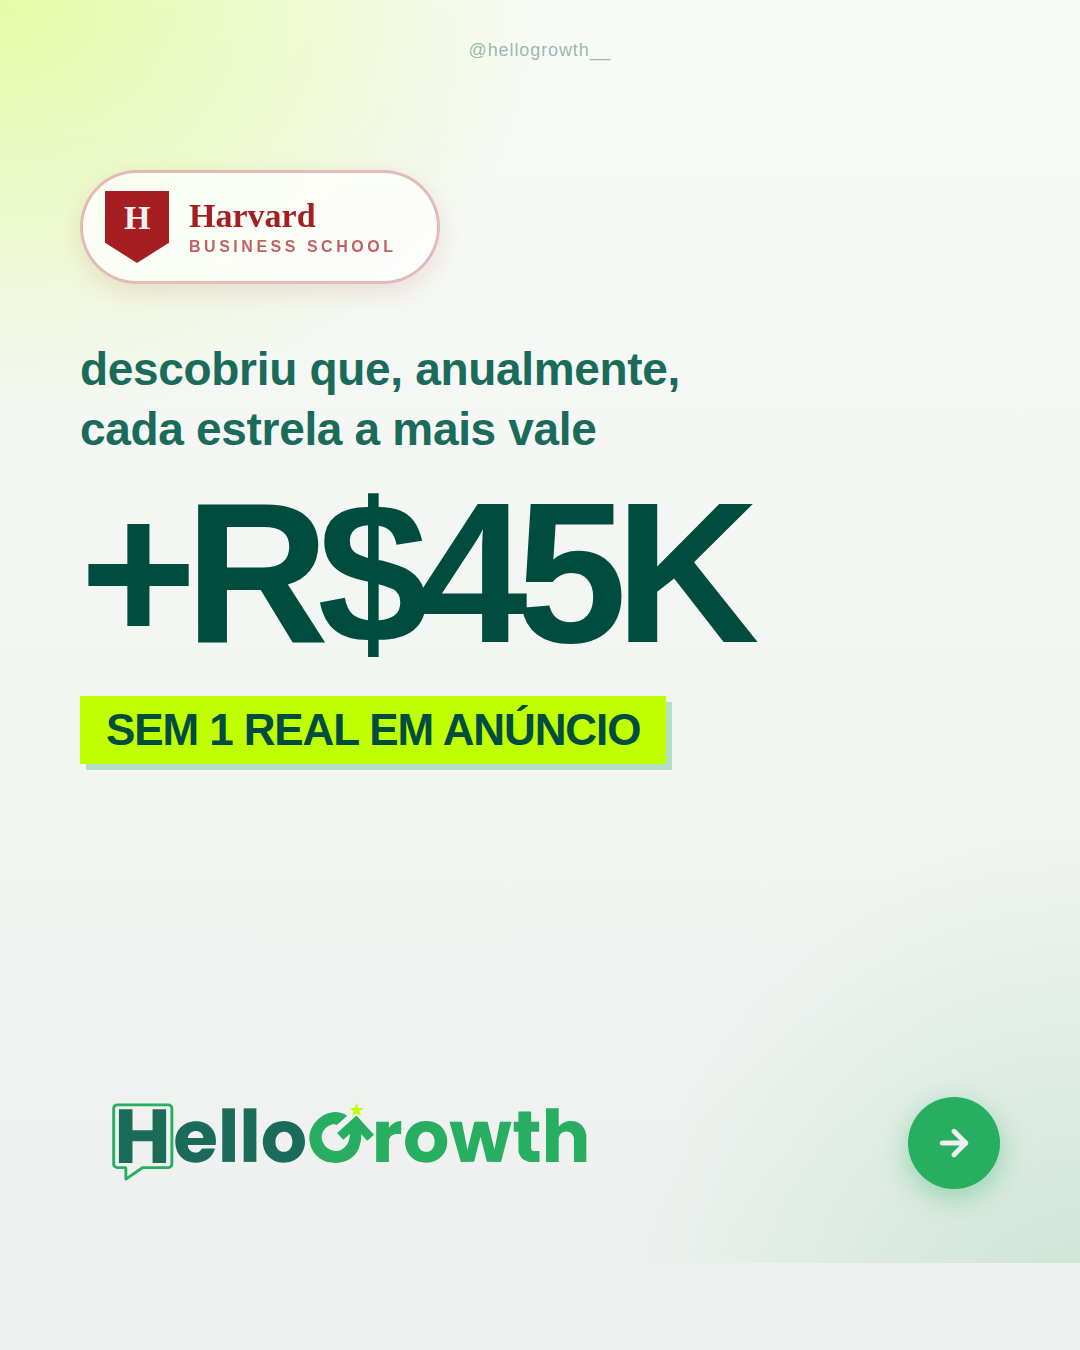
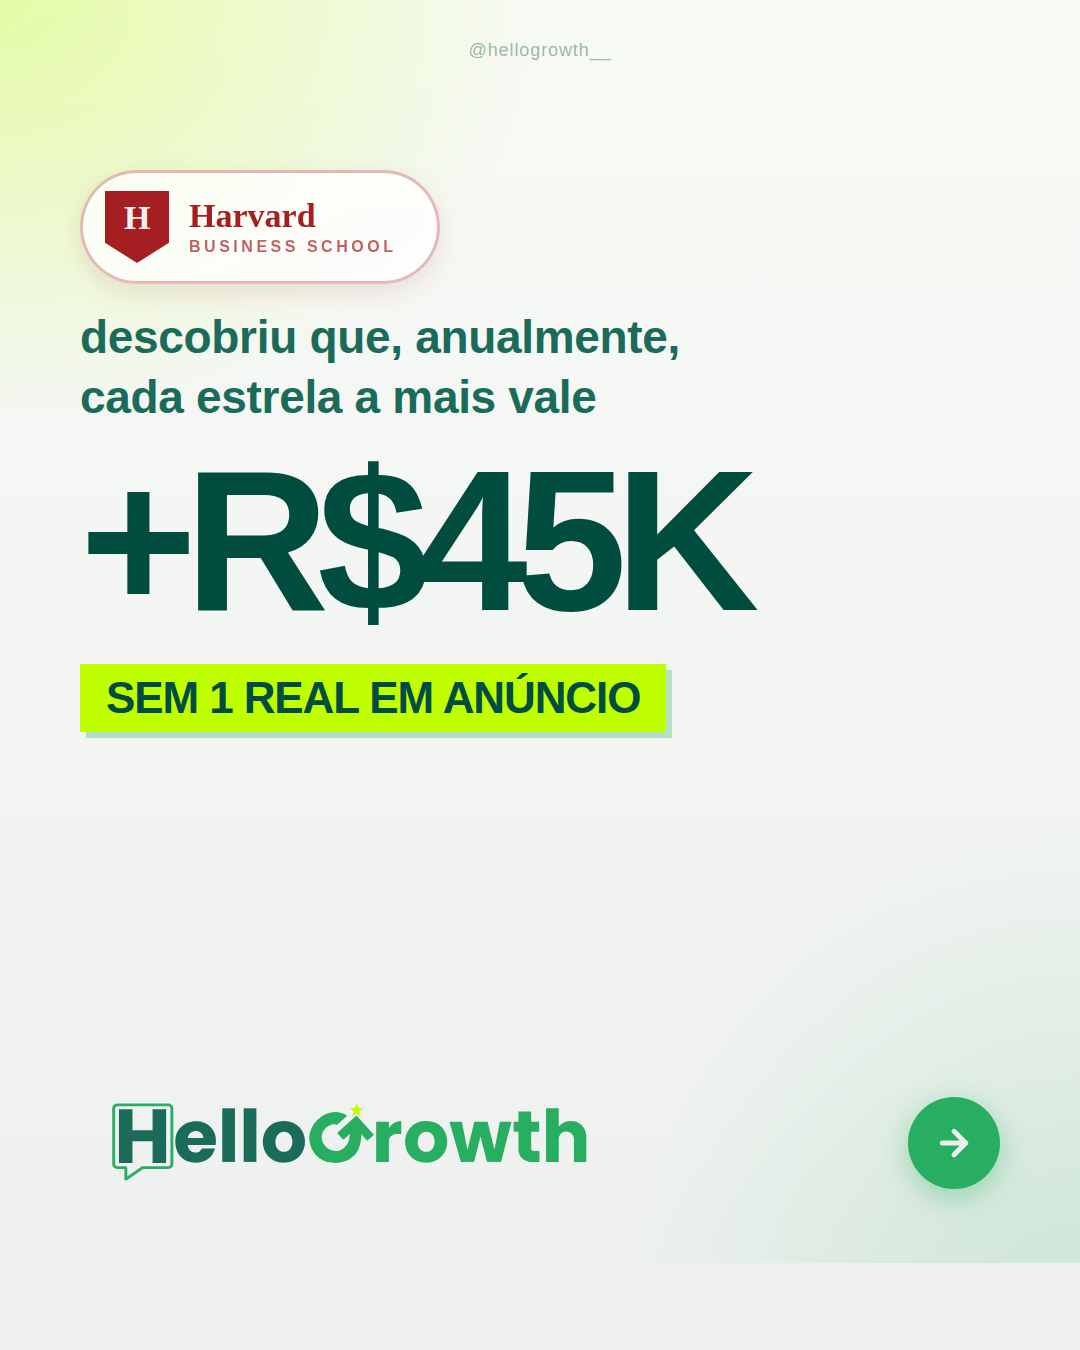
V10: tighten card 1 spacing and align card 4 "+35%" pill
Card 1: pull the Harvard badge closer to the body copy (margin-bottom
56→24px). Card 4: shrink the "+35%" pill (160→130px font, smaller
padding) and pull it left so the figure aligns with the surrounding
sentences instead of floating offset.

https://claude.ai/code/session_01RXRUyw64HWp6pgoosUTsE4

Changed region(s): [[0.0611, 0.2178, 0.6417, 0.5911], [0.6111, 0.3422, 0.7028, 0.4978]]

diff --git a/squads/social-content/output/2026-06-03-195535/slides-brand/slide-04.html b/squads/social-content/output/2026-06-03-195535/slides-brand/slide-04.html
@@ -50,11 +50,12 @@ html, body {
 .big-stat-pilula {
   display: inline-block;
   background: #004d40; color: #bfff00;
-  font-weight: 900; font-size: 160px;
-  padding: 16px 56px; border-radius: 100px;
+  font-weight: 900; font-size: 130px;
+  padding: 12px 36px; border-radius: 100px;
   letter-spacing: -0.055em; line-height: 1;
   box-shadow: 0 14px 50px rgba(0,77,64,0.35);
   margin-bottom: 36px;
+  margin-left: -36px;
 }
 .sub {
   font-size: 30px; font-weight: 500;

diff --git a/squads/social-content/output/2026-06-03-195535/slides-brand/slide-01.html b/squads/social-content/output/2026-06-03-195535/slides-brand/slide-01.html
@@ -36,7 +36,7 @@ html, body {
   border: 3px solid rgba(164,30,34,0.30);
   border-radius: 100px;
   padding: 18px 40px 18px 22px;
-  margin-top: 90px; margin-bottom: 56px;
+  margin-top: 90px; margin-bottom: 24px;
   backdrop-filter: blur(6px);
   box-shadow: 0 8px 24px rgba(164,30,34,0.12);
 }
